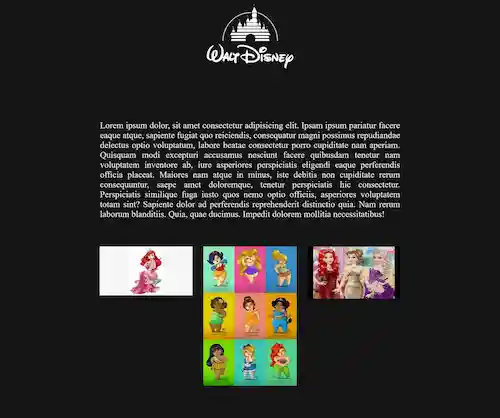
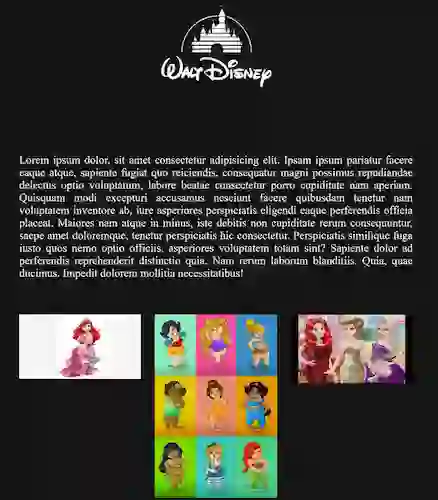
fixed

diff --git a/emet.html b/emet.html
@@ -1,0 +1,78 @@
+<html>
+
+{Github}.enlaceExterno#link*5
+<div class="enlaceExterno" id="link">Github</div>
+<div class="enlaceExterno" id="link">Github</div>
+<div class="enlaceExterno" id="link">Github</div>
+<div class="enlaceExterno" id="link">Github</div>
+<div class="enlaceExterno" id="link">Github</div>
+
+[] llaves
+. clases
+{ } contenido
+# id 
+$ enumaracion cuando hay una iteracion
+
+
+header>(h1 > img ) + (nav > a*3)
+<header>
+    <h1><img src="" alt=""></h1>
+    <nav>
+        <a href=""></a>
+        <a href=""></a>
+        <a href=""></a>
+    </nav>
+</header>
+
+<section class="informacion">
+    <article class="informacion__article">
+                <!-- B              E -->
+        <h2 class="article__titular">Titular</h2>
+                <!-- B       E -->
+        <p class="article__parrafo">Lorem ipsum dolor sit amet.</p>
+                <!-- B       E -->
+    </article>
+
+    <!--            --Rojo modificador -->
+    <article class="informacion__article--rojo">
+        <h2 class="article__titular">Titular</h2>
+        <p class="article__parrafo">Lorem ipsum dolor sit amet.</p>
+    </article>
+
+    <article class="informacion__article">
+        <h2 class="article__titular">Titular</h2>
+        <p class="article__parrafo">Lorem ipsum dolor sit amet.</p>
+    </article>
+
+    Base __ Elemento __ Modificar
+</section>
+
+<!-- sin bem -->
+    .container { a } 
+    div.container { z }
+    .container { y }
+    
+    se queda con Z porque es el mas declarativo
+
+
+<!-- con bem -->
+
+.informacion {}
+.informacion__article {}
+.informacion__article--rojo {}
+.article__titular {}
+.article__parrafo {}
+
+
+html => codigo composicion de etiquetas que habla directamente con el navegador, sirve para maquetar una pagina web.
+css => codigo donde le pamos unas propiedades al html
+javascript =>   lenguaje de programcion enfocado al frontend, se utiliza para trabajar la logica donde html y css no tiene posibles logicas avanzadas.
+                y html enseñara esos calculas.
+
+ruby => lenguaje de programacion enfocado al desarrollo web. problemas de escalabilidad.
+php => lenguaje de programacion enfocado al backend del desarrollo web.
+python => lenguaje de programacion multifuncional / multiplataforma.
+
+
+
+</html>

diff --git a/cuarto.html b/cuarto.html
@@ -32,8 +32,8 @@
 <body>
     <!-- *** ESTRUCTURA SEMÁNTICA *** -->
     <!-- Header (encabezado de la página, zona superior) -->
-    Click
     <main>
+        <!-- zona galeria -->
         <ul class="galeria">
             <a href="#" class="galeria1 galeria-sobre"><img class="imagen_web gris agrandar" src="img/desktop/cuarto/galeria1_mini.webp" alt="galeria 1"></a>
             <a href="#" class="galeria2 galeria-sobre"><img class="imagen_web gris agrandar" src="img/desktop/cuarto/galeria2_mini.webp" alt="galeria 2"></a>
@@ -46,8 +46,22 @@
             <a href="#" class="logo galeria-sobre"><img class="logo-img" src="img/desktop/cuarto/logo-pixar.webp" alt="logo Pixar"></a>
         </ul>
     </main>
-
+Click
 
 </body>
+<!-- <section class="centrado">
+        <figure class="container">
+            <img src="./img/desktop/cuarto/galeria1_mini.webp" alt="pixar monster" class="container__foto ">
+            <img src="./img/desktop/cuarto/galeria1_mini.webp" alt="pixar poco" class="container__foto ">
+            <img src="./img/desktop/cuarto/galeria1_mini.webp" alt="pixar roca" class="container__foto ">
+            <img src="./img/desktop/cuarto/galeria1_mini.webp" alt="pixar galer" class="container__foto ">
+            <img src="./img/desktop/cuarto/galeria1_mini.webp" alt="pixar mola" class="container__foto ">
+            <img src="./img/desktop/cuarto/galeria1_mini.webp" alt="galeria 9" class="container__foto container__foto-logo">
+            <img src="./img/desktop/cuarto/galeria1_mini.webp" alt="pixar cars" class="container__foto ">
+            <img src="./img/desktop/cuarto/galeria1_mini.webp" alt="galeria 7" class="container__foto ">
+            <img src="./img/desktop/cuarto/galeria1_mini.webp" alt="galeria 8" class="container__foto ">
+        </figure>
+    </section> -->
+
 
 </html>

diff --git a/css/cuarto.css b/css/cuarto.css
@@ -102,14 +102,13 @@
 
 .gris
 {
-    filter: grayscale(1);
+    filter: grayscale(100%);
 }
 
 
 .gris:hover
 {
     filter: grayscale(0);
- 
 }
 
 
@@ -124,6 +123,7 @@
 {
     border-radius: 0px;
     transform: scale(1.15);
+    /* transform-origin: center; */
     
 }
 
@@ -132,3 +132,32 @@
 {
     transform: scale(0.7);
 }
+
+
+/* .centrado
+{
+    display: flex;
+
+} */
+
+
+/* Profe  */
+/* .container
+{
+    display: grid;
+    grid-template-columns: repeat(4, 200px);
+
+}
+
+
+.container__foto
+{
+    width: 100%;
+}
+
+.container__foto-logo
+{
+    grid-column: span 2;
+    grid-row: span 2;
+
+} */
